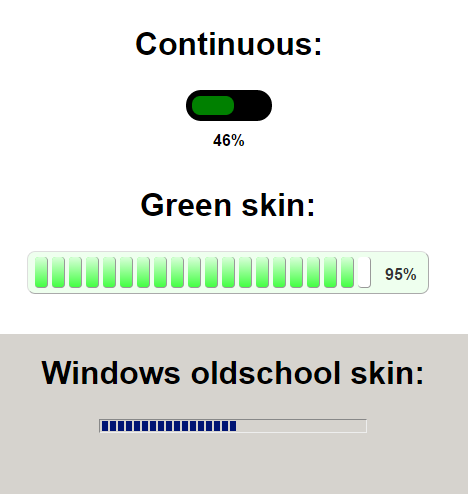
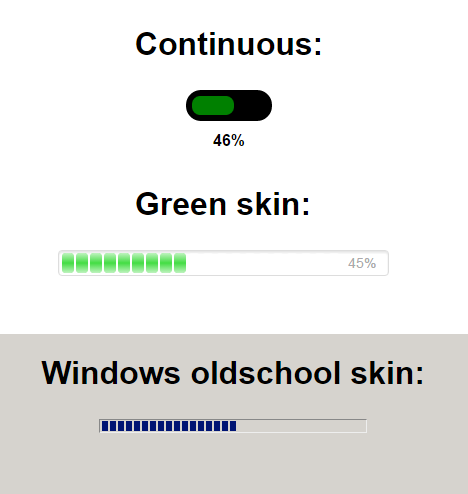
Clean up the example code

Changed region(s): [[0.0598, 0.4858, 0.8974, 0.6073], [0.2692, 0.3644, 0.688, 0.4555]]

diff --git a/skins/green-bars/loading-bar.css b/skins/green-bars/loading-bar.css
@@ -1,43 +1,37 @@
-/* ------------ Loading bar default style -------------  */
+/* ------------ Loading bar - green skin -------------  */
 
 .loading-bar {
 	display: inline-block;
-	padding: 5px 5px 1px 5px;
-	border-top: 1px solid #ddd;
-	border-left: 1px solid #ddd;
-	border-bottom: 1px solid #aaa;
-	border-right: 1px solid #aaa;
+	border: 1px solid #ddd;
 	margin: 5px 0;
-	line-height: 1.2;
-	border-radius: 8px;
+	padding: 0 2px;
+	border-radius: 4px;
+	height: 24px;
+	
+	-webkit-box-shadow: inset 0px 2px 1px 0px rgba(0,0,0,0.1);
+	-moz-box-shadow: inset 0px 2px 1px 0px rgba(0,0,0,0.1);
+	box-shadow: inset 0px 2px 2px 0px rgba(0,0,0,0.1);
 }
 
 .loading-bar .bar {
 	display: inline-block;
-	height: 30px;
+	height: 20px;
 	width: 12px;
-	margin: 0 2px;
-	background-color: #050505;
-	
-	background: rgba(255,255,255,0.8);
-	background: -moz-linear-gradient(top, rgba(255,255,255,0.8) 0%, rgba(0,255,17,0) 100%);
-	background: -webkit-gradient(left top, left bottom, color-stop(0%, rgba(255,255,255,0.8)), color-stop(100%, rgba(0,255,17,0)));
-	background: -webkit-linear-gradient(top, rgba(255,255,255,0.8) 0%, rgba(0,255,17,0) 100%);
-	background: -o-linear-gradient(top, rgba(255,255,255,0.8) 0%, rgba(0,255,17,0) 100%);
-	background: -ms-linear-gradient(top, rgba(255,255,255,0.8) 0%, rgba(0,255,17,0) 100%);
-	background: linear-gradient(to bottom, rgba(255,255,255,0.8) 0%, rgba(0,255,17,0) 100%);
-	filter: progid:DXImageTransform.Microsoft.gradient( startColorstr='#ffffff', endColorstr='#00ff11', GradientType=0 );
-
-	border-bottom: 1px solid #999;
-	border-right: 1px solid #999;
-	
+	margin: 2px 1px;
 	border-radius: 4px;
+	
+	background: -moz-linear-gradient(top,  rgba(255,255,255,0.66) 0%, rgba(255,255,255,0.5) 12%, rgba(255,255,255,0) 50%, rgba(255,255,255,0.5) 88%, rgba(255,255,255,0.66) 100%); /* FF3.6-15 */
+	background: -webkit-linear-gradient(top,  rgba(255,255,255,0.66) 0%,rgba(255,255,255,0.5) 12%,rgba(255,255,255,0) 50%,rgba(255,255,255,0.5) 88%,rgba(255,255,255,0.66) 100%); /* Chrome10-25,Safari5.1-6 */
+	background: linear-gradient(to bottom,  rgba(255,255,255,0.66) 0%,rgba(255,255,255,0.5) 12%,rgba(255,255,255,0) 50%,rgba(255,255,255,0.5) 88%,rgba(255,255,255,0.66) 100%); /* W3C, IE10+, FF16+, Chrome26+, Opera12+, Safari7+ */
+	filter: progid:DXImageTransform.Microsoft.gradient( startColorstr='#a8ffffff', endColorstr='#a8ffffff',GradientType=0 ); /* IE6-9 */
 }
 
 .loading-bar .percentage-container {
     display: inline-block;
-    width: 50px;
-	height: 30px;
+	font-size: 14px;
+    width: 45px;
+	height: 20px;
+	text-align: center;
 	-webkit-transform: skewX(0deg);
     -moz-transform: skewX(0deg);
     -ms-transform: skewX(0deg);
@@ -47,10 +41,5 @@
 
 .loading-bar .percentage-container #percentage {
 	position: absolute;
-	text-align: center;
-	font-weight: bold;
 	width: 3em;
-	left: 1px;
-    display: inline-block;
-    margin: 8px 3px;
 }

diff --git a/skins/windows-oldschool/loading-bar.css b/skins/windows-oldschool/loading-bar.css
@@ -1,11 +1,10 @@
-/* ------------ Loading bar default style -------------  */
+/* ------------ Loading bar - windows oldschool skin -------------  */
 body {
 	background: #d6d3ce;
 }
 .loading-bar {
 	display: inline-block;
 	height: 14px;
-	margin: 5px 0;
 	border-top: 1px solid #888;
 	border-left: 1px solid #888;
 	border-bottom: 1px solid #eee;
@@ -16,18 +15,13 @@ body {
 	display: inline-block;
 	height: 10px;
 	width: 6px;
-	margin: 0 1px;
-	position: relative;
-	top: -3px;
+	margin: 2px 1px;
 	background-color: #050505;
 }
 
 .loading-bar .percentage-container {
     display: block;
 	margin: 0 auto;
-    width: 30px;
-	height: 10px;
-	margin-top: 10px;
 	-webkit-transform: skewX(0deg);
     -moz-transform: skewX(0deg);
     -ms-transform: skewX(0deg);
@@ -36,11 +30,7 @@ body {
 }
 
 .loading-bar .percentage-container #percentage {
-	position: absolute;
+    display: inline-block;
 	text-align: center;
 	font-weight: bold;
-	width: 3em;
-	left: 1px;
-    display: inline-block;
-    margin: 8px 3px;
 }

diff --git a/skins/continuous/loading-bar.css b/skins/continuous/loading-bar.css
@@ -1,15 +1,11 @@
-/* ------------ Loading bar default style -------------  */
+/* ------------ Loading bar - continuous skin -------------  */
 
 .loading-bar {
 	display: inline-block;
-	padding: 5px 13px 1px 13px;
-	margin: 5px 0;
-	height: 25px;
+	padding: 5px 13px;
+	height: 21px;
 	background-color: #111;
-	line-height: 1.2;
 	border-radius: 25px;
-    position: relative;
-    z-index: 10;
 }
 
 .loading-bar .bar {
@@ -17,7 +13,6 @@
 	height: 19px;
 	width: 16px;
 	margin: 1px -7px;
-	background-color: #050505;
 	border-radius: 8px;
 }
 

diff --git a/examples/different-skin-exaples/green.html b/examples/different-skin-exaples/green.html
@@ -36,10 +36,10 @@
 			div: $('#loading-bar1'),
 			maxBars: 20,
 			style: {
-				containerColor: '#efe',
-				percentageColor: '#333',
-				barEmptyColor: 'white',
-				barFilledColor: '#4f4'
+				containerColor: 'white',
+				percentageColor: '#aaa',
+				barEmptyColor: 'rgba(0, 0, 0, 0)',
+				barFilledColor: '#4d4'
 			},
 			showPercentage: true
 		}).animate(300); // the default is 100ms

diff --git a/examples/different-skin-exaples/windows-oldschool.html b/examples/different-skin-exaples/windows-oldschool.html
@@ -39,7 +39,9 @@
 				containerColor: '#d6d3ce',
 				barFilledColor: '#001474',
 				barEmptyColor: '#d6d3ce',
-			}
+				percentageColor: 'black'
+			},
+			showPercentage: true
 		}).animate(); // the default is 100ms
 
 	</script>
